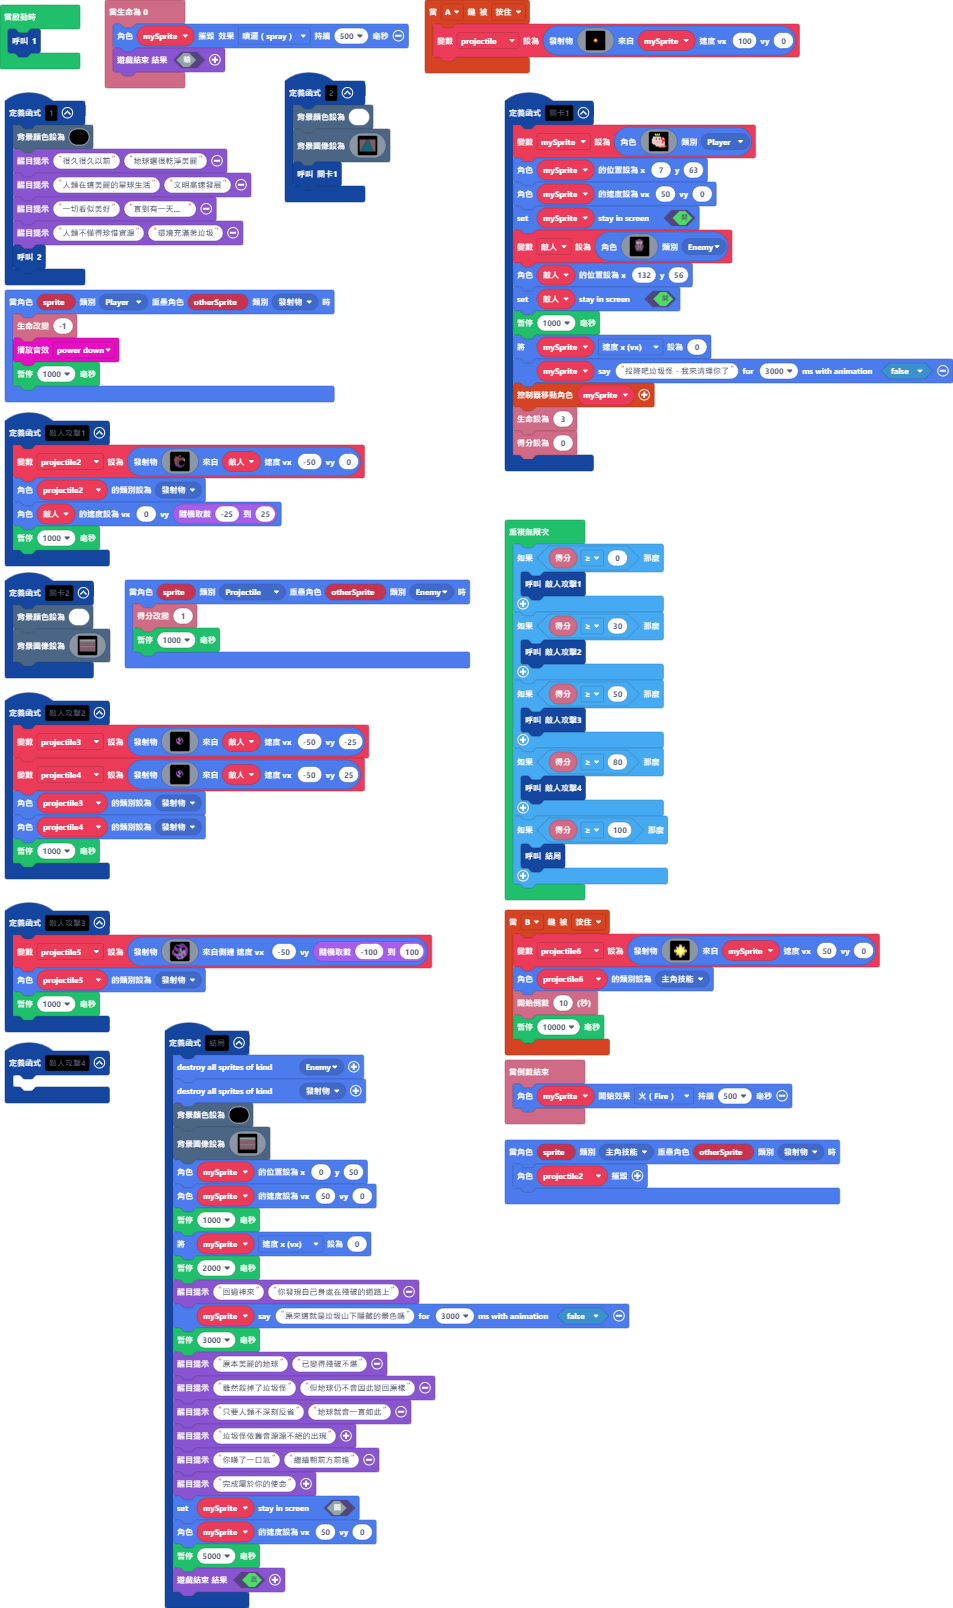
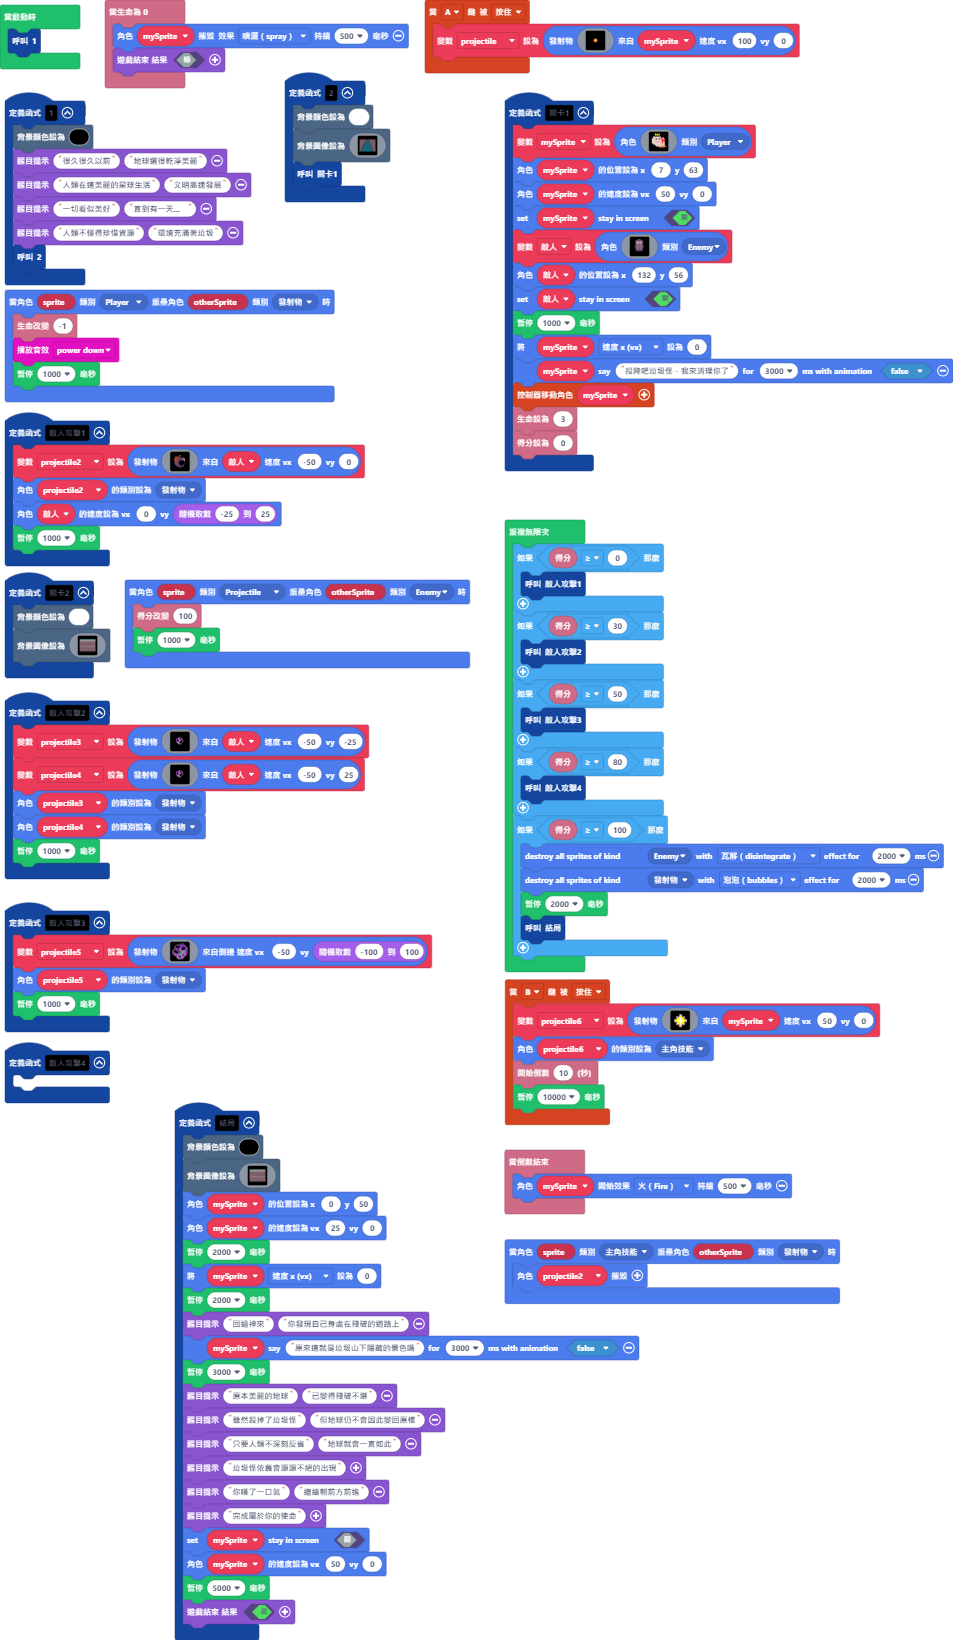
更新 main.blocks, main.ts

diff --git a/main.ts b/main.ts
@@ -464,8 +464,6 @@ function 敵人攻擊4 () {
 	
 }
 function 結局 () {
-    sprites.destroyAllSpritesOfKind(SpriteKind.Enemy)
-    sprites.destroyAllSpritesOfKind(SpriteKind.發射物)
     scene.setBackgroundColor(15)
     scene.setBackgroundImage(img`
         9999999999999999999999999999999999999999999999999999999999999999999999999999999999999999999999999999999999999999999999999999999999999999999999999999999999999999
@@ -590,8 +588,8 @@ function 結局 () {
         bbbbbbbbbbbbbbbbbbbbbbbbbbbbbbbbbbbbbbbbbbbbbbbbbbbbbbbbbbbbbbbbbbbbbbbbbbbbbbbbbbbbbbbbbbbbbbbbbbbbbbbbbbbbbbbbbbbbbbbbbbbbbbbbbbbbbbbbbbbbbbbbbbbbbbbbbbbbbbbb
         `)
     mySprite.setPosition(0, 50)
-    mySprite.setVelocity(50, 0)
-    pause(1000)
+    mySprite.setVelocity(25, 0)
+    pause(2000)
     mySprite.vx = 0
     pause(2000)
     game.splash("回過神來", "你發現自己身處在殘破的道路上")
@@ -609,7 +607,7 @@ function 結局 () {
     game.over(true)
 }
 sprites.onOverlap(SpriteKind.Projectile, SpriteKind.Enemy, function (sprite, otherSprite) {
-    info.changeScoreBy(1)
+    info.changeScoreBy(100)
     pause(1000)
 })
 function _1 () {
@@ -643,6 +641,9 @@ forever(function () {
         敵人攻擊4()
     }
     if (info.score() >= 100) {
+        sprites.destroyAllSpritesOfKind(SpriteKind.Enemy, effects.disintegrate, 2000)
+        sprites.destroyAllSpritesOfKind(SpriteKind.發射物, effects.bubbles, 2000)
+        pause(2000)
         結局()
     }
 })
